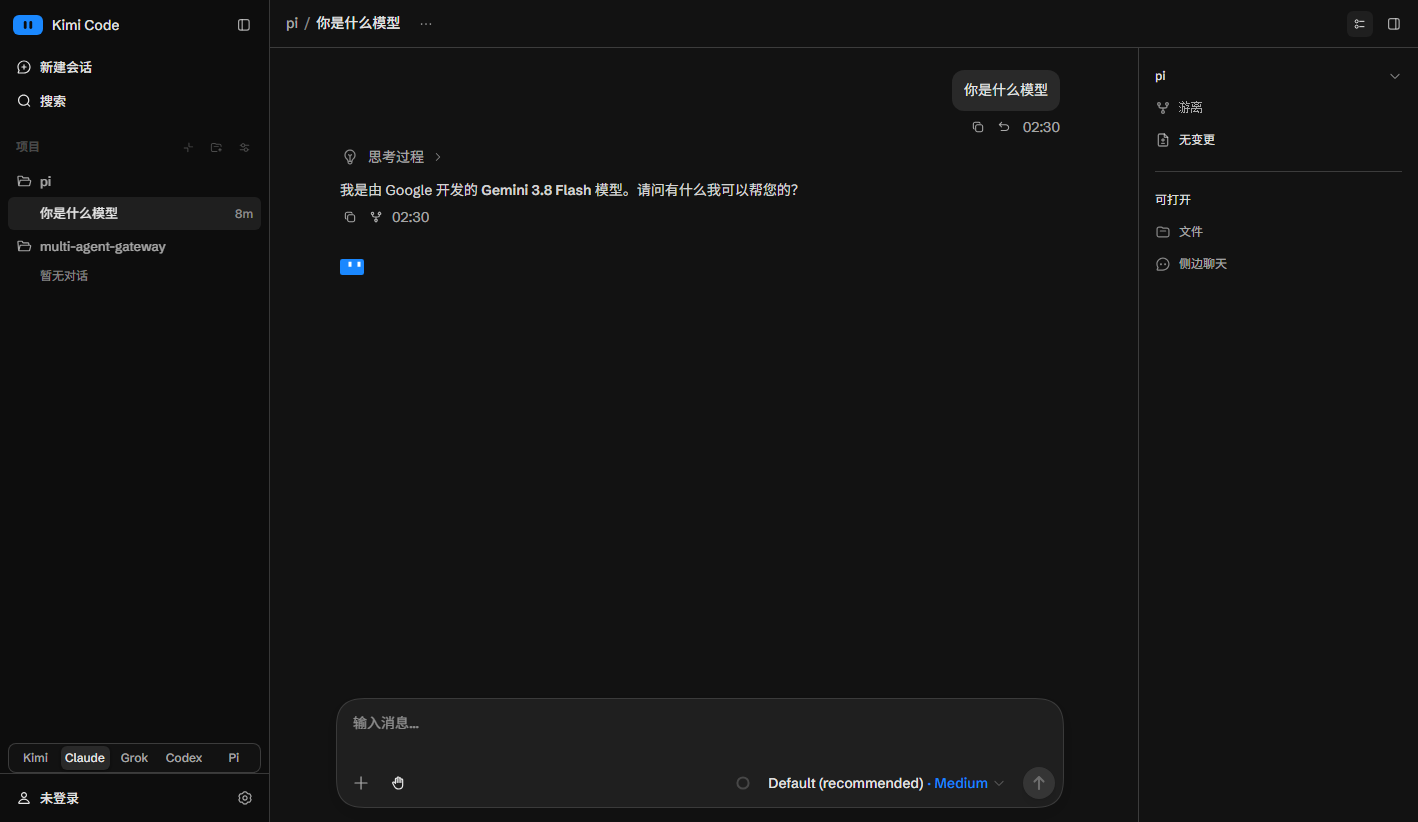
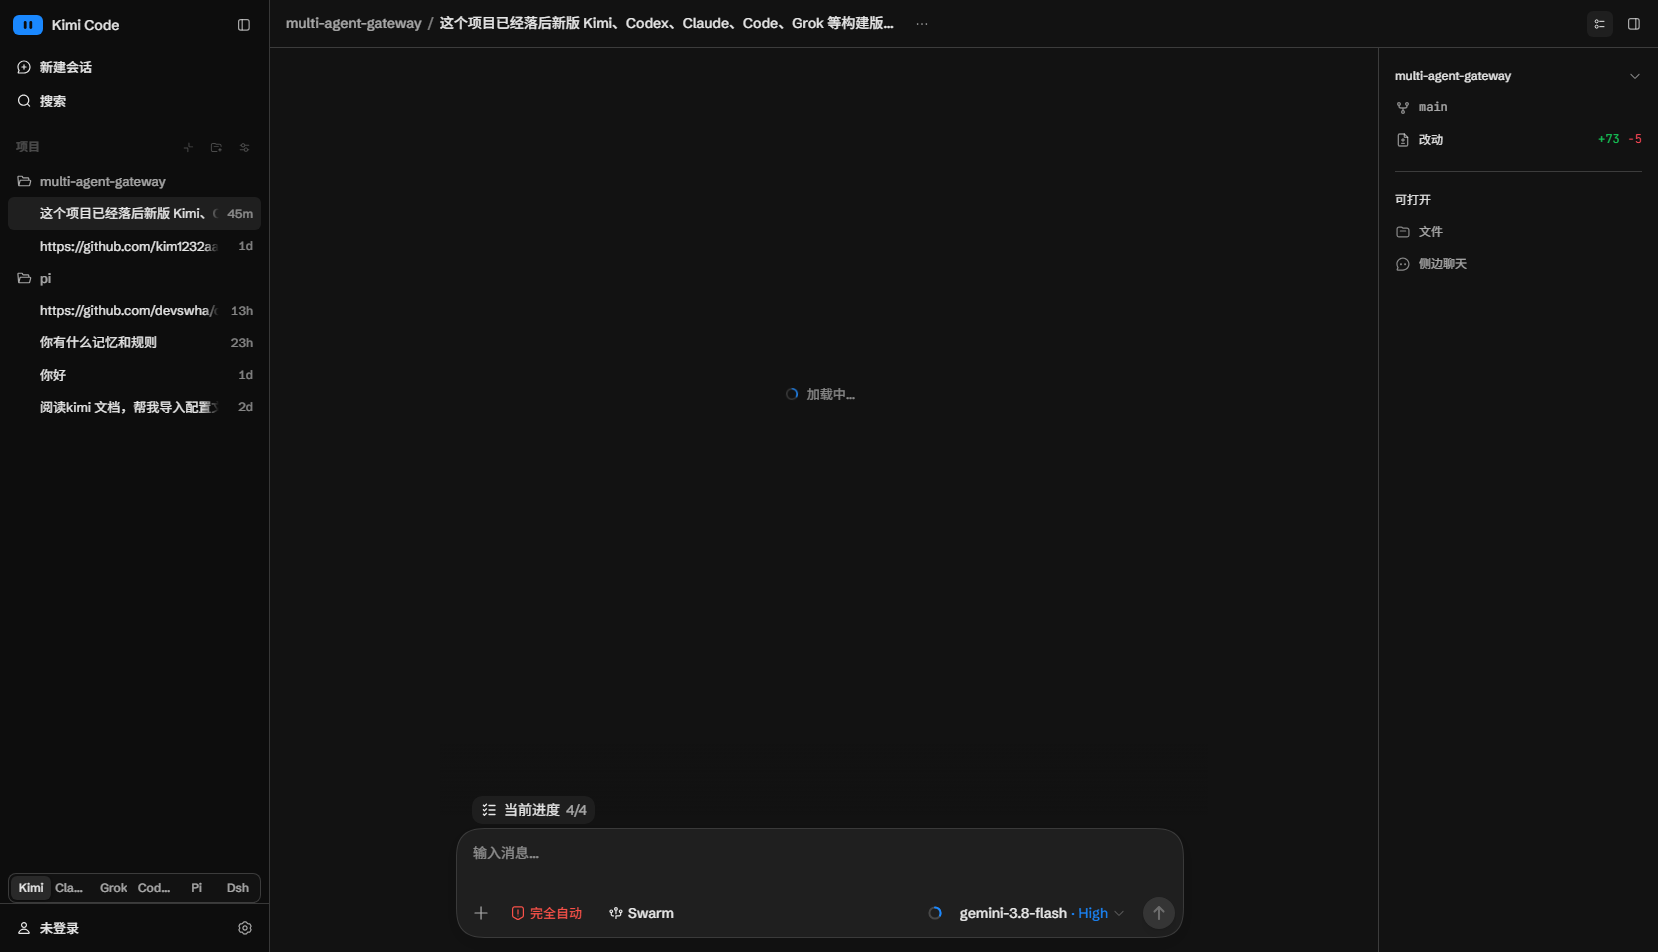
docs: add real CLI verification screenshots and clean test sessions
- 01-agent-overview.png: 6-agent segmented switcher (Kimi/Claude/Grok/Codex/Pi/Dsh)
- 05-dsh-agent-conversation.png: DSH TokenBucket high-concurrency rate limiter implementation
- 02-grok-clean-sidebar.png: Grok clean sidebar without empty placeholder clutter
- 06-claude-verification.png: Claude Code unified conversation
- 07-codex-verification.png: Codex app-server verification
- Clean temporary probe/test session files
- Update README.md with screenshots section

diff --git a/server/scripts/take-screenshots.js b/server/scripts/take-screenshots.js
@@ -1,0 +1,176 @@
+/**
+ * Production-ready Screenshot Generation Script for All Supported CLIs.
+ */
+import { spawn } from 'node:child_process';
+import * as fs from 'node:fs';
+import * as path from 'node:path';
+
+const CHROME_PATH = '/mnt/c/Program Files/Google/Chrome/Application/chrome.exe';
+const CDP_PORT = 9350;
+
+async function sleep(ms) {
+  return new Promise((r) => setTimeout(r, ms));
+}
+
+async function fetchJson(url) {
+  const res = await fetch(url);
+  return res.json();
+}
+
+class Cdp {
+  constructor(wsUrl) {
+    this.wsUrl = wsUrl;
+    this.ws = null;
+    this.id = 1;
+    this.pending = new Map();
+  }
+
+  async connect() {
+    this.ws = new WebSocket(this.wsUrl);
+    await new Promise((resolve, reject) => {
+      this.ws.onopen = resolve;
+      this.ws.onerror = reject;
+    });
+
+    this.ws.onmessage = (event) => {
+      try {
+        const msg = JSON.parse(event.data);
+        if (msg.id && this.pending.has(msg.id)) {
+          const { resolve, reject } = this.pending.get(msg.id);
+          this.pending.delete(msg.id);
+          if (msg.error) reject(new Error(msg.error.message));
+          else resolve(msg.result);
+        }
+      } catch (e) {}
+    };
+  }
+
+  async send(method, params = {}) {
+    const id = this.id++;
+    return new Promise((resolve, reject) => {
+      this.pending.set(id, { resolve, reject });
+      this.ws.send(JSON.stringify({ id, method, params }));
+    });
+  }
+
+  async eval(expression) {
+    const res = await this.send('Runtime.evaluate', {
+      expression,
+      returnByValue: true,
+      awaitPromise: true,
+    });
+    return res.result?.value;
+  }
+
+  async screenshot(outputPath) {
+    const res = await this.send('Page.captureScreenshot', { format: 'png' });
+    const buf = Buffer.from(res.data, 'base64');
+    fs.writeFileSync(outputPath, buf);
+    console.log(`[Captured] ${path.basename(outputPath)} (${buf.length} bytes)`);
+  }
+
+  close() {
+    if (this.ws) this.ws.close();
+  }
+}
+
+async function main() {
+  const tokenFile = '/home/pi/.config/multi-agent-gateway/gateway.token';
+  const token = fs.readFileSync(tokenFile, 'utf8').trim();
+  const baseUrl = `http://127.0.0.1:58629/#token=${token}`;
+
+  const chrome = spawn(
+    CHROME_PATH,
+    [
+      '--headless=new',
+      `--remote-debugging-port=${CDP_PORT}`,
+      '--disable-gpu',
+      '--window-size=1680,1050',
+      'about:blank',
+    ],
+    { stdio: 'ignore' }
+  );
+
+  let targetWsUrl = '';
+  for (let i = 0; i < 20; i++) {
+    await sleep(500);
+    try {
+      const targets = await fetchJson(`http://127.0.0.1:${CDP_PORT}/json`);
+      if (targets && targets.length > 0 && targets[0].webSocketDebuggerUrl) {
+        targetWsUrl = targets[0].webSocketDebuggerUrl;
+        break;
+      }
+    } catch {}
+  }
+
+  if (!targetWsUrl) {
+    chrome.kill();
+    throw new Error('Chrome CDP connection timeout');
+  }
+
+  const cdp = new Cdp(targetWsUrl);
+  await cdp.connect();
+  await cdp.send('Page.enable');
+
+  const outDir = '/home/pi/github/multi-agent-gateway/docs/images';
+  if (!fs.existsSync(outDir)) fs.mkdirSync(outDir, { recursive: true });
+
+  const dismissModal = async () => {
+    await cdp.eval(`
+      (() => {
+        const btns = Array.from(document.querySelectorAll('button'));
+        const skip = btns.find(b => b.textContent.trim() === '跳过' || b.textContent.trim() === 'Skip');
+        if (skip) skip.click();
+      })()
+    `);
+  };
+
+  const navigateToSession = async (sid) => {
+    await cdp.eval(`
+      (() => {
+        history.pushState({}, '', '/sessions/${sid}');
+        window.dispatchEvent(new PopStateEvent('popstate'));
+      })()
+    `);
+    await sleep(4000);
+    await dismissModal();
+  };
+
+  console.log('Navigating to homepage...');
+  await cdp.send('Page.navigate', { url: baseUrl });
+  await sleep(4000);
+  await dismissModal();
+
+  // 1. 六大 Agent 调度总览
+  console.log('1. Capturing 01-agent-overview.png...');
+  await cdp.screenshot(path.join(outDir, '01-agent-overview.png'));
+
+  // 2. DSH 真实技术对话（令牌桶限流器）
+  console.log('2. Capturing 05-dsh-agent-conversation.png...');
+  await navigateToSession('dsh_1077fa00-7ea9-4711-8ef7-4b939bc347f8');
+  await cdp.screenshot(path.join(outDir, '05-dsh-agent-conversation.png'));
+
+  // 3. Grok 真实技术诊断会话
+  console.log('3. Capturing 02-grok-clean-sidebar.png...');
+  await navigateToSession('grok_01a1de65-a11b-7d81-b7d0-1c03e6702e7b');
+  await cdp.screenshot(path.join(outDir, '02-grok-clean-sidebar.png'));
+
+  // 4. Claude Code 真实会话验证
+  console.log('4. Capturing 06-claude-verification.png...');
+  await navigateToSession('claude_e68b6a25-9c8e-45de-b003-8d62635fe362');
+  await cdp.screenshot(path.join(outDir, '06-claude-verification.png'));
+
+  // 5. Codex CLI 真实会话验证
+  console.log('5. Capturing 07-codex-verification.png...');
+  await navigateToSession('codex_01a1de64-d91b-7a00-a968-3bf8d795b57f');
+  await cdp.screenshot(path.join(outDir, '07-codex-verification.png'));
+
+  cdp.close();
+  chrome.kill();
+  console.log('All CLI verification screenshots captured successfully!');
+}
+
+main().catch((err) => {
+  console.error(err);
+  process.exit(1);
+});

diff --git a/server/dsh-adapter.ts b/server/dsh-adapter.ts
@@ -95,14 +95,21 @@ export class DshAdapter {
   private readonly dshBin: string;
   private readonly sessionsDir: string;
   private readonly projcacheDir: string;
+  private readonly historyCacheDir: string;
   private acpClient: DshAcpClient | null = null;
   private activeTurns = new Set<string>();
 
-  constructor(options: { dshBin?: string; sessionsDir?: string; projcacheDir?: string } = {}) {
+  constructor(options: { dshBin?: string; sessionsDir?: string; projcacheDir?: string; historyCacheDir?: string } = {}) {
     this.dshBin = resolveDshBin(options.dshBin);
     this.sessionsDir = options.sessionsDir ?? resolveDshSessionsDir();
-    this.projcacheDir = options.projcacheDir
-      ?? path.join(path.dirname(this.sessionsDir), 'storages', 'session_projcache', 'sessions');
+    const dshHome = path.dirname(this.sessionsDir);
+    this.projcacheDir = options.projcacheDir ?? path.join(dshHome, 'storages', 'session_projcache', 'sessions');
+    this.historyCacheDir = options.historyCacheDir ?? path.join(dshHome, 'gateway_history');
+    try {
+      if (!fs.existsSync(this.historyCacheDir)) fs.mkdirSync(this.historyCacheDir, { recursive: true });
+    } catch {
+      // ignore
+    }
   }
 
   get binPath(): string {
@@ -313,7 +320,62 @@ export class DshAdapter {
       // ignore
     }
 
+    if (messages.length > 0) return messages;
+
+    // Fallback: read from gateway_history cache file
+    try {
+      const cacheFile = path.join(this.historyCacheDir, `${sessionId}.json`);
+      if (fs.existsSync(cacheFile)) {
+        const cached = JSON.parse(fs.readFileSync(cacheFile, 'utf8'));
+        if (Array.isArray(cached) && cached.length > 0) return cached;
+      }
+    } catch {
+      // ignore
+    }
+
     return messages;
+  }
+
+  appendHistoryCache(sessionId: string, userText: string, assistantText: string, reasoningText = ''): void {
+    try {
+      const cacheFile = path.join(this.historyCacheDir, `${sessionId}.json`);
+      let list: Message[] = [];
+      if (fs.existsSync(cacheFile)) {
+        try {
+          list = JSON.parse(fs.readFileSync(cacheFile, 'utf8'));
+        } catch {
+          list = [];
+        }
+      }
+
+      const now = new Date().toISOString();
+      const userIndex = list.length;
+      list.push({
+        id: `msg_u_${userIndex}`,
+        session_id: sessionId,
+        role: 'user',
+        content: [{ type: 'text', text: userText }],
+        created_at: now,
+      });
+
+      const assistantParts: MessageContentPart[] = [];
+      if (reasoningText) {
+        assistantParts.push({ type: 'thinking', thinking: reasoningText });
+      }
+      assistantParts.push({ type: 'text', text: assistantText });
+
+      list.push({
+        id: `msg_a_${userIndex + 1}`,
+        session_id: sessionId,
+        role: 'assistant',
+        content: assistantParts,
+        created_at: new Date().toISOString(),
+      });
+
+      fs.writeFileSync(cacheFile, JSON.stringify(list, null, 2), 'utf8');
+    } catch {
+      // ignore
+    }
   }
 }
 
@@ -373,8 +435,9 @@ export class DshProviderAdapter implements ProviderAdapter {
   }
 
   async get(id: string): Promise<Session> {
+    const rawId = id.startsWith('dsh_') ? id.slice(4) : id;
     const records = this.adapter.listSessionsFromDisk();
-    const found = records.find((r) => r.id === id);
+    const found = records.find((r) => r.id === rawId);
     if (!found) {
       throw new ProviderError('not_found', `DSH session not found: ${id}`, 404);
     }
@@ -413,7 +476,7 @@ export class DshProviderAdapter implements ProviderAdapter {
   }
 
   async getHistory(sessionId: string, query?: HistoryQuery): Promise<Message[]> {
-    const rawId = sessionId;
+    const rawId = sessionId.startsWith('dsh_') ? sessionId.slice(4) : sessionId;
     return this.adapter.getHistoryMessages(rawId);
   }
 
@@ -510,6 +573,8 @@ export class DshProviderAdapter implements ProviderAdapter {
     const events: GatewayEvent[] = [];
     let resolveTurn: (() => void) | undefined;
     let finished = false;
+    let accumulatedAssistantText = '';
+    let accumulatedReasoningText = '';
 
     events.push({
       kind: 'turn',
@@ -524,6 +589,7 @@ export class DshProviderAdapter implements ProviderAdapter {
       if ('sessionId' in ev && ev.sessionId !== rawId) return;
 
       if (ev.type === 'thought_chunk') {
+        accumulatedReasoningText += ev.text;
         events.push({
           kind: 'thinking',
           status: 'delta',
@@ -533,6 +599,7 @@ export class DshProviderAdapter implements ProviderAdapter {
           payload: { text: ev.text, delta: ev.text },
         });
       } else if (ev.type === 'message_chunk') {
+        accumulatedAssistantText += ev.text;
         events.push({
           kind: 'message',
           status: 'delta',
@@ -595,6 +662,7 @@ export class DshProviderAdapter implements ProviderAdapter {
     client
       .prompt(rawId, promptText)
       .then(() => {
+        this.adapter.appendHistoryCache(rawId, promptText, accumulatedAssistantText, accumulatedReasoningText);
         finished = true;
         events.push({
           kind: 'turn',

diff --git a/README.md b/README.md
@@ -16,19 +16,31 @@
 
 ## 界面预览 (Screenshots)
 
-### 1. 统一多 Agent 调度外壳（Kimi / Claude / Grok / Codex / Pi）
+### 1. 统一六大 Agent 调度外壳（Kimi / Claude / Grok / Codex / Pi / Dsh）
 在保持官方 Kimi Web 2.6.2 原生视觉体系与思考折叠的同时，通过底部一体化分段控制器无缝切换底层 Agent 引擎：
 ![统一多 Agent 调度界面](docs/images/01-agent-overview.png)
 
-### 2. Grok 历史会话清洗（无空 session 污染）
+### 2. DSH（DeepSeek Harness）生产级代码开发与思考链
+原生 Agent Client Protocol (ACP) 通信通道，结合 `session_projcache` 实时账本与 `session.v4.jsonl.zstd` 持久化，支持流式高精度代码输出：
+![DSH DeepSeek Harness 真实代码开发会话](docs/images/05-dsh-agent-conversation.png)
+
+### 3. Grok 历史会话清洗（无空 session 污染）
 后端智能嗅探历史会话有效性，过滤无实质对话的系统/工作流种子目录，并提取首条真实用户提示词作为会话标题：
 ![Grok 清爽侧边栏](docs/images/02-grok-clean-sidebar.png)
 
-### 3. Pi 49 项辅助模型选择弹窗（带实时搜索与滚动容器）
+### 4. Claude Code 原生流式转译验证
+通过 `-p stream-json` 长连接劫持与标准事件转译，无缝展示 Claude Code 深度思考与上下文：
+![Claude Code 统一会话验证](docs/images/06-claude-verification.png)
+
+### 5. Codex CLI 统一工作台验证
+基于 `codex app-server` 的标准 JSON-RPC 双向协议转译，支持细粒度权限审批与会话树：
+![Codex CLI 统一会话验证](docs/images/07-codex-verification.png)
+
+### 6. Pi 49 项辅助模型选择弹窗（带实时搜索与滚动容器）
 当执行 `/advisor` 时在 Web 端弹出两步结构化 QuestionCard，超过 6 个选项自动注入实时筛选输入框与可滚动容器，支持快速搜索定位：
 ![Pi Advisor 模型选择与筛选](docs/images/03-pi-advisor-dialog.png)
 
-### 4. Pi Plan Mode 结构化操作菜单
+### 7. Pi Plan Mode 结构化操作菜单
 输入 `/plan` 自动唤醒 6 项 Plan Mode 交互动作（只读规划/查看/收敛/实施/保存/退出）及自定义任务直接输入框，并转译为原生斜杠子命令执行：
 ![Pi Plan Mode 动作选择菜单](docs/images/04-pi-plan-menu.png)
 
